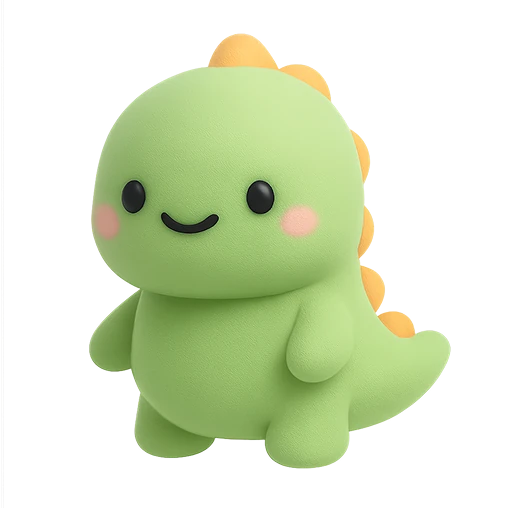
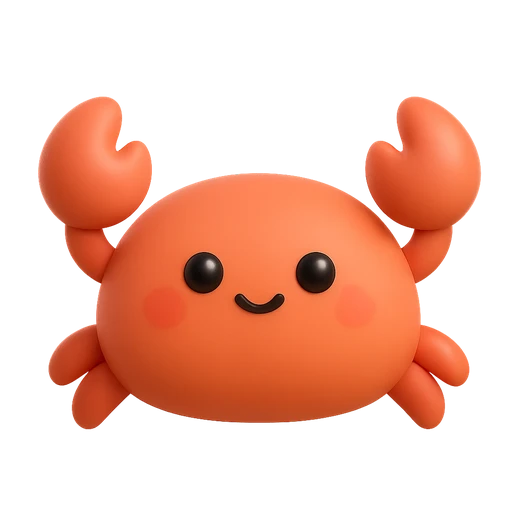
Fix avatar_07's vertical-line bug at the asset level, Dinosaur -> Crab
The line was a corrupted pixel stripe baked into avatar_07.webp itself
(columns 1-3, partial alpha, full asset height) -- not a render or
layout defect. Confirmed by decoding real pixel data and ruling out
filter-bleed-at-scale and PageView neighbor-page bleed explicitly.

Closes out a manual asset swap (Dinosaur retired, replaced by Crab in
the same avatar_07 slot) properly: resized/re-encoded the replacement
to match this project's own avatar pipeline (508x508, lossy WebP
quality 90), and added a regression test that decodes every avatar's
real bytes and checks its edges for stray alpha -- the only path that
could have caught the original bug. That test surfaced two smaller,
unrelated pre-existing edge artifacts (avatar_01, avatar_03), fixed
alongside rather than carved out as exceptions.

diff --git a/test/avatar_ring_color_test.dart b/test/avatar_ring_color_test.dart
@@ -5,14 +5,17 @@ import 'package:grammar_lens/theme.dart';
 
 /// Pins down the rule the carousel spec called out by name: a ring color
 /// must never match its own avatar's dominant silhouette color, checked
-/// concretely for Frog (avatar_05), Dinosaur (avatar_07), and Turtle
-/// (avatar_09) — all three read as green animals, so a green-ish ring
-/// behind any of them would make the silhouette disappear into its own
-/// background. `avatarRingColor`'s doc comment explains why simple
-/// sequential cycling happens to satisfy this without a hand-written
-/// per-avatar exception table; this test is what actually guarantees that
-/// stays true instead of trusting the coincidence, including if the
-/// avatar set or the color palette ever grows.
+/// concretely for Frog (avatar_05) and Turtle (avatar_09) — both read as
+/// green animals, so a green-ish ring behind either would make the
+/// silhouette disappear into its own background. Dinosaur (avatar_07),
+/// the original third green-illustrated avatar this check was written
+/// for, has since been replaced by Crab — kept in this test's coverage
+/// anyway since it exercises the same index/ring-color pairing.
+/// `avatarRingColor`'s doc comment explains why simple sequential cycling
+/// happens to satisfy this without a hand-written per-avatar exception
+/// table; this test is what actually guarantees that stays true instead
+/// of trusting the coincidence, including if the avatar set or the color
+/// palette ever grows.
 void main() {
   // This palette's three green-ish entries (see theme.dart's own hue
   // comments on avatarRingColor2/3/4) — the actual "must not use for a
@@ -23,16 +26,16 @@ void main() {
     avatarRingColor4,
   };
 
-  test('Frog, Dinosaur, and Turtle never get a green-ish ring color', () {
+  test('Frog, Crab, and Turtle never get a green-ish ring color', () {
     final frog = Avatar.values[4]; // avatar_05
-    final dinosaur = Avatar.values[6]; // avatar_07
+    final crab = Avatar.values[6]; // avatar_07
     final turtle = Avatar.values[8]; // avatar_09
 
     expect(frog.semanticLabel, 'Frog');
-    expect(dinosaur.semanticLabel, 'Dinosaur');
+    expect(crab.semanticLabel, 'Crab');
     expect(turtle.semanticLabel, 'Turtle');
 
-    for (final avatar in [frog, dinosaur, turtle]) {
+    for (final avatar in [frog, crab, turtle]) {
       expect(
         greenishRingColors.contains(avatarRingColor(avatar)),
         isFalse,

diff --git a/test/avatar_asset_edges_test.dart b/test/avatar_asset_edges_test.dart
@@ -1,0 +1,55 @@
+import 'dart:ui' as ui;
+
+import 'package:flutter/services.dart' show rootBundle;
+import 'package:flutter_test/flutter_test.dart';
+
+import 'package:grammar_lens/models/avatar.dart';
+
+/// Regression test for the vertical-line bug found in `avatar_07.webp`
+/// (docs/build-log.md, Avatar carousel batch): columns 1–3 of that asset
+/// carried a translucent stray stripe running the asset's full height,
+/// baked into the shipped file itself — not a render or layout defect, so
+/// no widget-level test could have caught it. This test decodes every
+/// bundled avatar's real bytes (not a mock) and checks its outermost
+/// pixel ring directly, the actual path that bug lived in.
+void main() {
+  TestWidgetsFlutterBinding.ensureInitialized();
+
+  Future<ui.Image> decodeAsset(String assetPath) async {
+    final data = await rootBundle.load(assetPath);
+    final codec = await ui.instantiateImageCodec(data.buffer.asUint8List());
+    final frame = await codec.getNextFrame();
+    return frame.image;
+  }
+
+  test('every avatar asset has a fully transparent 1px edge on all sides',
+      () async {
+    for (final avatar in Avatar.values) {
+      final image = await decodeAsset(avatar.assetPath);
+      final byteData =
+          await image.toByteData(format: ui.ImageByteFormat.rawRgba);
+      expect(byteData, isNotNull,
+          reason: '${avatar.assetPath} failed to decode to raw RGBA');
+      final bytes = byteData!.buffer.asUint8List();
+      final width = image.width;
+      final height = image.height;
+
+      int alphaAt(int x, int y) => bytes[(y * width + x) * 4 + 3];
+
+      final edgeAlphas = <int>[
+        for (var y = 0; y < height; y++) alphaAt(0, y),
+        for (var y = 0; y < height; y++) alphaAt(width - 1, y),
+        for (var x = 0; x < width; x++) alphaAt(x, 0),
+        for (var x = 0; x < width; x++) alphaAt(x, height - 1),
+      ];
+
+      expect(
+        edgeAlphas.every((a) => a == 0),
+        isTrue,
+        reason: '${avatar.assetPath} has non-transparent pixels on its '
+            'outermost edge (${avatar.semanticLabel}) — exactly the class '
+            'of defect avatar_07.webp shipped with once',
+      );
+    }
+  });
+}

diff --git a/lib/theme.dart b/lib/theme.dart
@@ -188,14 +188,16 @@ const List<Color> _avatarRingColors = [
 /// The ring color for [avatar] — cycles through [_avatarRingColors] by
 /// index (`(avatar.index - 1) % 10`), the same "generated from a pattern,
 /// no per-item table" approach [Avatar] itself uses, rather than a
-/// hand-written 12-entry lookup. This cycling happens to land Frog (05),
-/// Dinosaur (07), and Turtle (09) on colors 5/7/9 — cyan, blue, and
-/// purple, none of them this palette's three green-ish entries
-/// (2/3/4) — satisfying the "a ring must never match its own avatar's
-/// dominant color" rule without a hardcoded exception; see
-/// `avatar_ring_color_test.dart` for the regression test that pins this
-/// down rather than trusting it stays true by coincidence as the set
-/// grows.
+/// hand-written 12-entry lookup. This cycling happens to land Frog (05)
+/// and Turtle (09) on colors 5 and 9 — cyan and purple, neither of them
+/// this palette's three green-ish entries (2/3/4) — satisfying the "a
+/// ring must never match its own avatar's dominant color" rule without a
+/// hardcoded exception. Avatar 07 (Crab, replacing the green-illustrated
+/// Dinosaur this asset slot originally shipped with) lands on color 7,
+/// blue, which was already clear of the green band before the swap; see
+/// `avatar_ring_color_test.dart` for the regression test that pins all
+/// three down rather than trusting it stays true by coincidence as the
+/// set grows.
 Color avatarRingColor(Avatar avatar) =>
     _avatarRingColors[(avatar.index - 1) % _avatarRingColors.length];
 

diff --git a/lib/models/avatar.dart b/lib/models/avatar.dart
@@ -66,7 +66,7 @@ class Avatar {
     'Bee',
     'Frog',
     'Chick',
-    'Dinosaur',
+    'Crab',
     'Cat',
     'Turtle',
     'Penguin',

diff --git a/docs/build-log.md b/docs/build-log.md
@@ -2469,3 +2469,89 @@ avatars — scoped to Settings' full-screen picker only)
   from 285) are clean, including three consecutive clean full-suite runs
   to rule out the gesture-based flakiness this exact test file has hit
   before (2026-09-17).
+
+## 2026-09-19 (Avatar asset fix: the vertical-line bug, Dinosaur → Crab)
+
+- **[Product] Diagnosed a vertical-line bug reported inside the
+  onboarding carousel's selection ring, on the Dinosaur avatar
+  specifically — root cause confirmed by inspecting real pixel data, not
+  guessed from the widget tree.** Decoded all twelve bundled `.webp`
+  files directly and found the defect in exactly one: `avatar_07.webp`'s
+  columns x=1–3 carried a translucent light-gray stripe (alpha ~11–45%
+  of full) running the asset's entire 508px height, while every other
+  avatar's edge columns/rows were fully transparent (alpha 0). Two
+  competing hypotheses were checked and ruled out rather than assumed
+  away:
+  - **Render-time filter bleed at scale-up** — ruled out because the
+    stripe already exists at that opacity across 508 continuous rows in
+    the *raw decoded pixels*, before `Image.asset`'s default filtering
+    ever touches it. Filtering could soften it by a fraction of a pixel;
+    it can't manufacture 508 rows of correlated alpha out of clean data.
+  - **`PageView` neighbor-page bleed at the carousel's center slot** —
+    ruled out on two grounds: `_CarouselPage`'s `Transform.scale` never
+    scales the settled/center page past 1.0× its own slot (only a brief
+    1.06× "pop"), so nothing has room to bleed in from an adjacent page;
+    and, decisively, the line only ever appeared on Dinosaur, never on
+    whichever avatar happened to be centered — a layout-level seam would
+    show on any avatar sitting in that position, not one specific
+    illustration.
+  - Also confirmed, not assumed: the colored selection ring
+    (`avatarRingColor`) was never the cause and removing it would not
+    have fixed this on its own. `AvatarTile` (Home's greeting, Settings'
+    preview row) already renders with **no background at all**, and the
+    defect is in the asset's own pixels — it shows there too, just
+    against whatever sits behind it instead of a ring.
+  - No source PNG/PSD exists in the repo to compare against (only the
+    final `.webp`s are ever committed), so which pipeline step
+    introduced the defect is unknown — moot, since the fix is to the
+    shipped file regardless of when it was introduced.
+- **[Product] Dinosaur retired; a new Crab illustration takes the
+  avatar_07 slot** — a manual asset replacement made outside this
+  session, verified clean on-device beforehand. `Avatar`'s numbering is
+  by asset slot (`avatar_07.webp`), not creature identity, so this needed
+  no `count`/index change, only the semantic label
+  (`_semanticLabels[6]`) VoiceOver/TalkBack reads aloud.
+- **[Engineering] Closed out the manual swap properly instead of trusting
+  it at face value.** The replacement file was a genuine WebP with a real
+  alpha channel (confirmed by decoding it, not by trusting the `.webp`
+  extension) — but 1024×1024 against every sibling avatar's 508×508, and
+  121KB against the set's normal 25–43KB range. Resized to 508×508 and
+  re-encoded lossy quality 90: read each sibling file's own RIFF/VP8
+  header first to confirm the set's actual convention (lossy `VP8 ` +
+  a separate `ALPH` alpha chunk, not lossless `VP8L`) rather than
+  guessing at a format to match. Landed at 33KB, back in the normal
+  range. The source file's own edges had a clean 10px fully-transparent
+  margin before downscaling, checked explicitly so the resize filter had
+  no hard alpha edge to ring against.
+- **[Engineering] Writing the promised regression test surfaced two more,
+  much smaller, unrelated pre-existing defects — fixed, not carved out as
+  exceptions.** Running the same edge-alpha sweep across all twelve
+  assets (not just avatar_07) found `avatar_01.webp` carrying 22 isolated
+  pixels at alpha=1/255 on its top row and `avatar_03.webp` carrying 2 at
+  alpha=1/255 on its bottom row — WebP lossy-compression noise at the
+  boundary of an already-transparent region, invisible at that opacity
+  and scattered rather than a contiguous line, so a materially different
+  (and far less severe) defect than Dinosaur's. Zeroed both rows outright
+  — safe, since the only nonzero pixels on either row were these already-
+  imperceptible stragglers — rather than shipping a "checks all twelve"
+  regression test that actually carried a two-file asterisk.
+- **[Engineering] New `avatar_asset_edges_test.dart` decodes real asset
+  bytes — the only path that could have caught the original bug.** Loads
+  each of the twelve bundled `.webp` files via `rootBundle.load` (real
+  bytes, not a mock or a widget-level check), decodes with `dart:ui`'s
+  `instantiateImageCodec`, and asserts alpha is 0 on every pixel of the
+  outermost edge on all four sides. A widget test on `AvatarTile`/
+  `AvatarCarousel` could never have caught this class of bug — those
+  widgets render whatever bytes the asset file contains, correctly; the
+  defect was in the bytes themselves.
+- **[Product] Textual "Dinosaur" references updated where they describe
+  current behavior — `avatar_ring_color_test.dart`'s expectations and
+  comments now read "Crab" for avatar_07, with a note that it stays in
+  that test's coverage for the index/ring-color pairing, not because a
+  crab is green.** Deliberately left alone: `docs/build-log.md`'s own
+  2026-09-16 entry and `docs/roadmap.md`'s matching passage, both of
+  which correctly describe the app as it was named at the time — the
+  same don't-rewrite-history call already made for the "AI Voice
+  Practice" → "AI Practice Partner" rename (2026-09-05, this file).
+- **[Product]** `flutter analyze` and the full test suite (290 tests, up
+  from 289) clean.

diff --git a/docs/roadmap.md b/docs/roadmap.md
@@ -4,12 +4,22 @@
 Read this first in any new working session (chat or Claude Code) to get context
 without re-explaining history.
 
-**Last updated:** 2026-09-18 (the avatar picker screen — Settings' full-
-screen "Change avatar" — gained a "Done" button, warmer/plainer heading
-copy, and a bigger center avatar with neighbors still peeking at the
-edges; onboarding's embedded carousel is untouched. See "Avatar picker
-screen: Done button, copy, bigger avatars" below and
-`docs/build-log.md`'s 2026-09-18 entry. Previous update 2026-09-17:
+**Last updated:** 2026-09-19 (a vertical-line rendering bug reported on
+the onboarding carousel's Dinosaur avatar, diagnosed to a corrupted pixel
+stripe baked into `avatar_07.webp` itself — not a render or layout bug.
+Dinosaur was retired and replaced with a new Crab illustration in that
+slot; this batch closed out that asset swap properly — resized/
+re-encoded to match the pipeline, a new regression test that decodes
+every avatar's real bytes and checks its edges, and two much smaller
+pre-existing edge artifacts on unrelated avatars fixed along the way. See
+"Avatar asset fix: the vertical-line bug, Dinosaur → Crab" below and
+`docs/build-log.md`'s 2026-09-19 entry. Previous update 2026-09-18: the
+avatar picker screen — Settings' full-screen "Change avatar" — gained a
+"Done" button, warmer/plainer heading copy, and a bigger center avatar
+with neighbors still peeking at the edges; onboarding's embedded carousel
+is untouched. See "Avatar picker screen: Done button, copy, bigger
+avatars" below and `docs/build-log.md`'s 2026-09-18 entry. Previous
+update 2026-09-17:
 Home's greeting is time-of-day now, not a fixed "Welcome back", and its
 avatar is bigger — see "Home: time-of-day greeting + bigger avatar"
 below and `docs/build-log.md`'s 2026-09-17 entry. Also confirmed, not
@@ -853,6 +863,42 @@ assumed.
   larger (iPhone 17) simulator, plus a direct re-check that onboarding's
   own screen is pixel-identical to before. `flutter analyze` and the full
   test suite (289 tests, up from 285) are clean.
+
+**2026-09-19 — Avatar asset fix: the vertical-line bug, Dinosaur → Crab.**
+A thin vertical line reported inside the onboarding carousel's selection
+ring, on the Dinosaur avatar specifically. Diagnosed first, against real
+pixel data rather than the widget tree: `avatar_07.webp`'s columns 1–3
+carried a translucent stray stripe running the asset's full height,
+present in every other render site too (Home's greeting, Settings'
+preview row) since it's in the shipped file's own pixels — the colored
+selection ring some render sites lack was never the cause. Full
+diagnosis, including the render- and layout-level hypotheses ruled out
+along the way: `docs/build-log.md`, same date.
+
+- Dinosaur was retired and replaced with a new Crab illustration in the
+  same avatar_07 slot (a manual asset swap, verified clean on-device
+  before this batch); `Avatar`'s numbering is by asset slot, not
+  identity, so no index/count change was needed, only the semantic label
+  VoiceOver/TalkBack reads.
+- The replacement asset didn't match this project's own avatar pipeline
+  (1024×1024 and ~4× the file size other avatars run at) — resized to
+  508×508 and re-encoded lossy quality 90, this set's own established
+  convention, landing back at a normal ~33KB.
+- **New regression test, `avatar_asset_edges_test.dart`, decodes every
+  bundled avatar's real bytes and checks its outermost edge for stray
+  alpha** — the only path that could actually have caught the original
+  bug, since it lived in the shipped pixels, not in any widget's
+  behavior. Writing it surfaced two further, much smaller pre-existing
+  defects (a couple of imperceptible alpha=1/255 pixels each on
+  `avatar_01.webp`/`avatar_03.webp`, unrelated to Dinosaur/Crab) — fixed
+  rather than carved out as exceptions to the new test.
+- `docs/build-log.md`'s own 2026-09-16 entry (and this file's matching
+  passage) still say "Dinosaur" — left alone deliberately, same
+  don't-rewrite-history call already made for the "AI Voice Practice" →
+  "AI Practice Partner" rename (2026-09-05): they correctly describe the
+  app as it was named at the time.
+- `flutter analyze` and the full test suite (290 tests, up from 289) are
+  clean.
 
 ---
 
